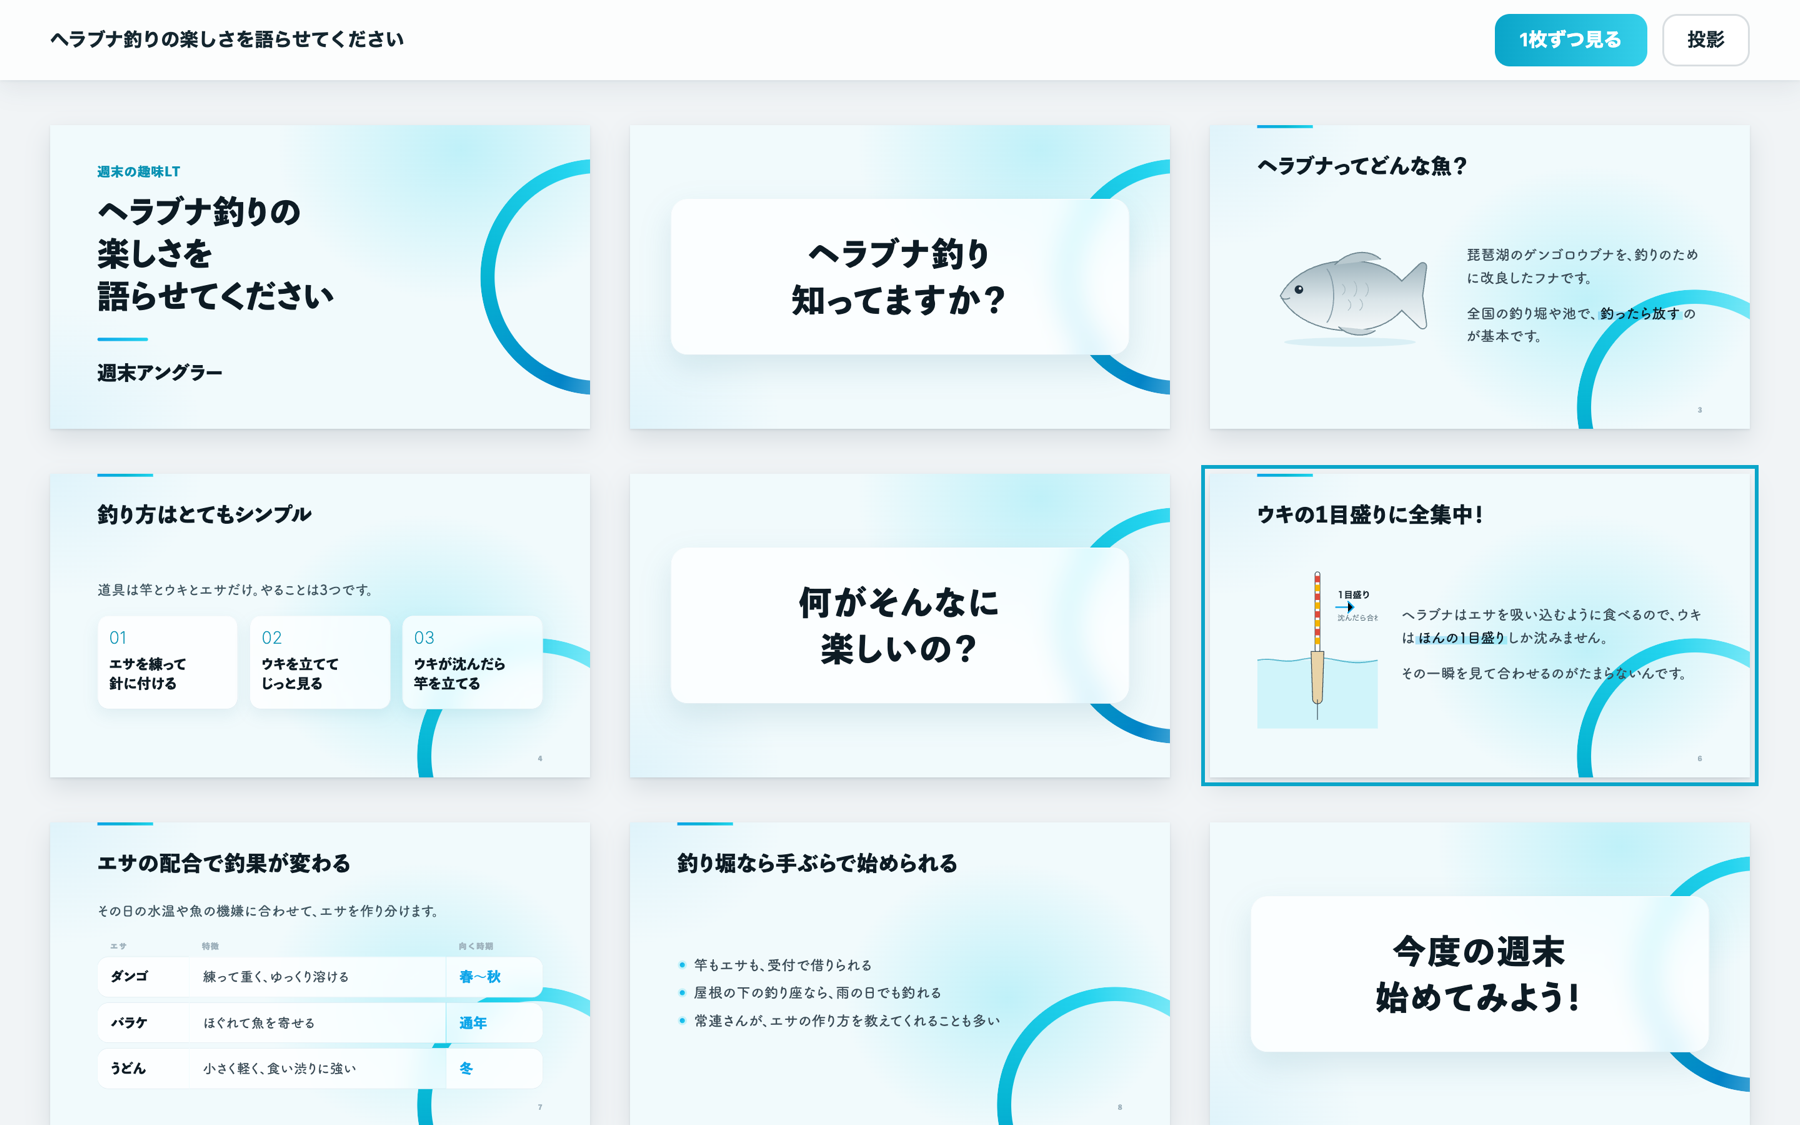
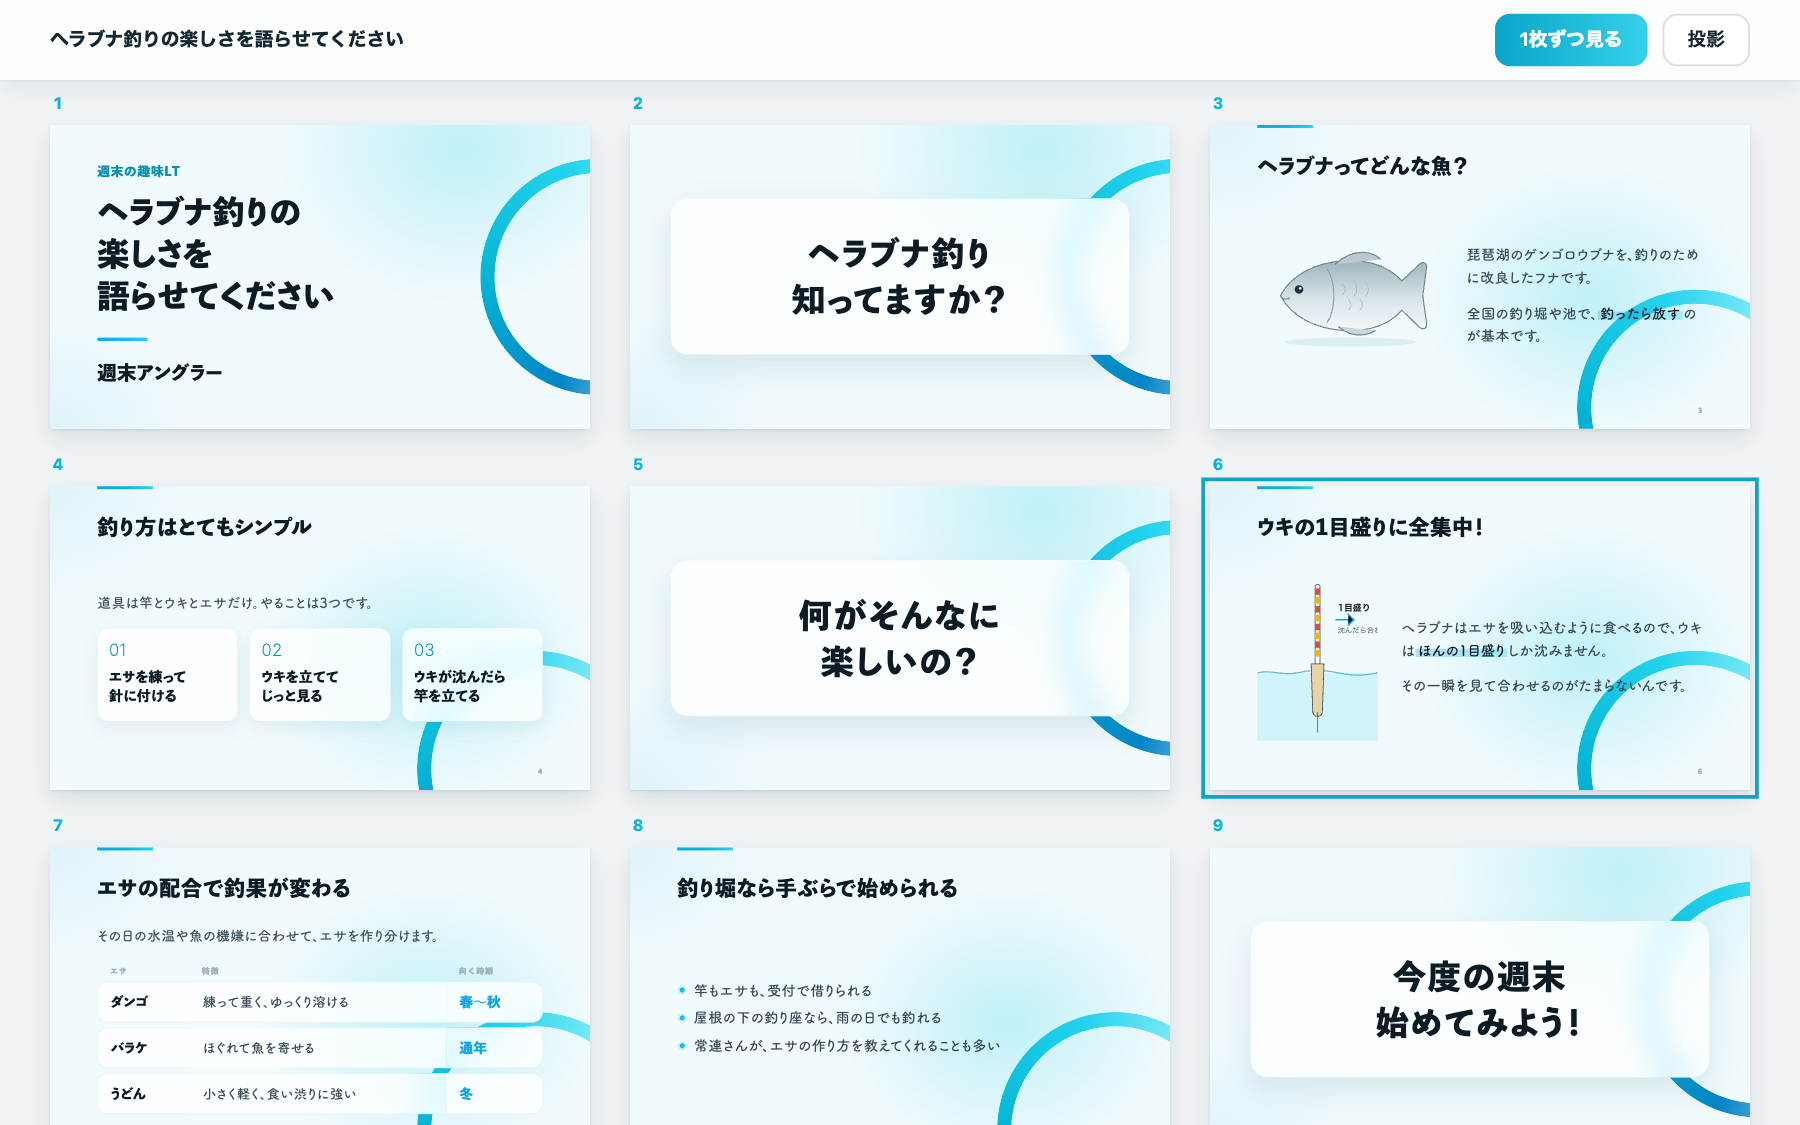
一覧の各スライドの左上の外に番号を出す

diff --git a/presenter-view.js b/presenter-view.js
@@ -137,6 +137,37 @@ body[data-bespoke-view=overview]:has(#pv-ov.pv-framed) .bespoke-marp-parent{padd
       };
       svg.addEventListener('dblclick', () => { location.href = pageUrl('presenter', i + 1); });
     });
+    /* 各ページの番号を、スライドの外（升の左上の行間）に小さく出す。スライド右下のページ番号は3列の升では
+       小さすぎて読めず、「◯枚目を直して」と伝えるときに数えることになるため。スライドの上に重ねると見出しが
+       隠れるので外に置く。svg には擬似要素を付けられないので、一覧の格子へ絶対配置の札を足し、升の位置が
+       変わるたびに置き直す */
+    const grid = document.querySelector('.bespoke-marp-parent');
+    const slides = [...grid.querySelectorAll(':scope > svg.bespoke-marp-slide')];
+    const nst = document.createElement('style');
+    nst.textContent = `
+body[data-bespoke-view=overview] .bespoke-marp-parent{position:relative;row-gap:46px}
+@media (max-width:900px){body[data-bespoke-view=overview] .bespoke-marp-parent{row-gap:42px}}
+.pv-num{position:absolute;z-index:2;pointer-events:none;transform:translate(2px,calc(-100% - 11px));font:800 13px/1 -apple-system,BlinkMacSystemFont,"Hiragino Sans",sans-serif;letter-spacing:.08em;font-variant-numeric:tabular-nums;color:#0891b2;background:linear-gradient(90deg,#0ea5e9,#06b6d4 50%,#22d3ee);-webkit-background-clip:text;background-clip:text;-webkit-text-fill-color:transparent}`;
+    document.head.appendChild(nst);
+    const tags = slides.map((_, i) => {
+      const t = document.createElement('div');
+      t.className = 'pv-num';
+      t.textContent = i + 1;
+      grid.appendChild(t);
+      return t;
+    });
+    const placeNums = () => {
+      const g = grid.getBoundingClientRect();
+      slides.forEach((svg, i) => {
+        const r = svg.getBoundingClientRect();
+        const s = tags[i].style;
+        s.left = `${r.left - g.left + grid.scrollLeft - grid.clientLeft}px`;
+        s.top = `${r.top - g.top + grid.scrollTop - grid.clientTop}px`;
+      });
+    };
+    placeNums();
+    new ResizeObserver(placeNums).observe(grid);
+    addEventListener('resize', placeNums);
     return;
   }
 
